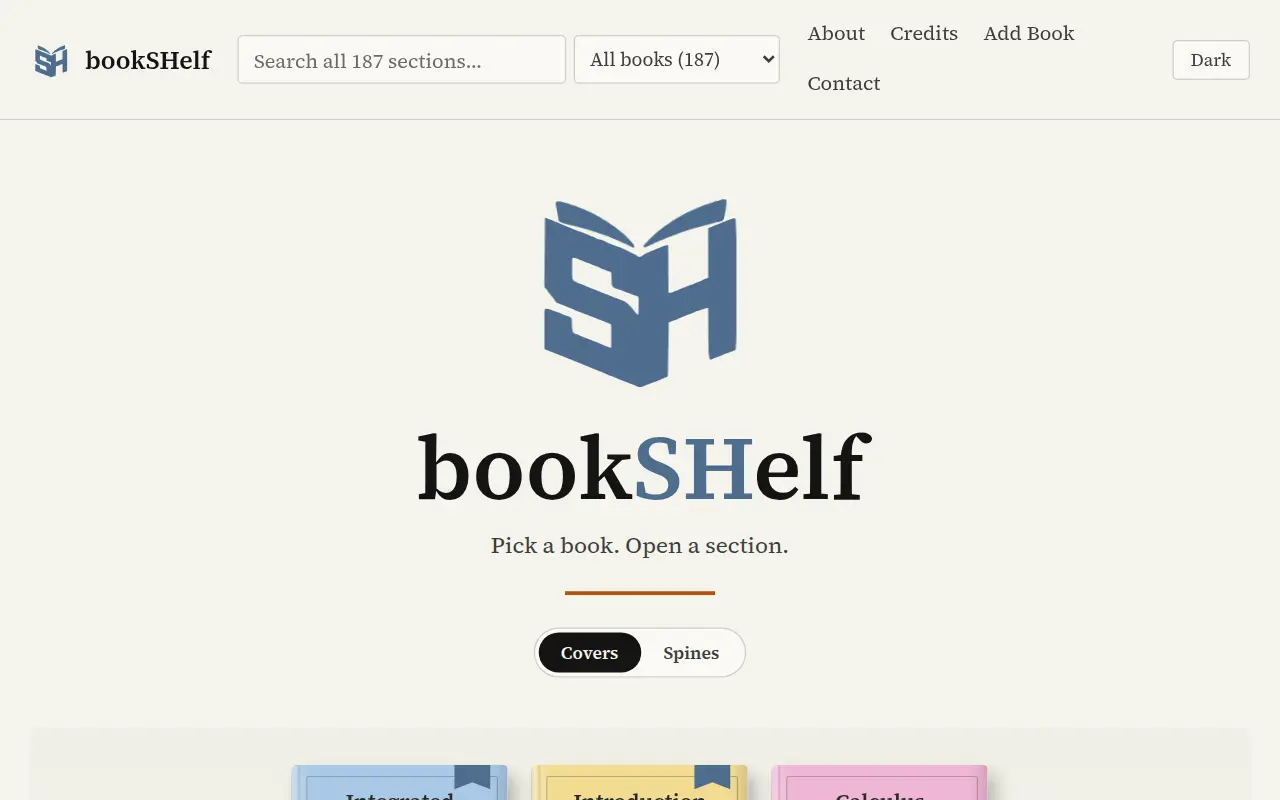
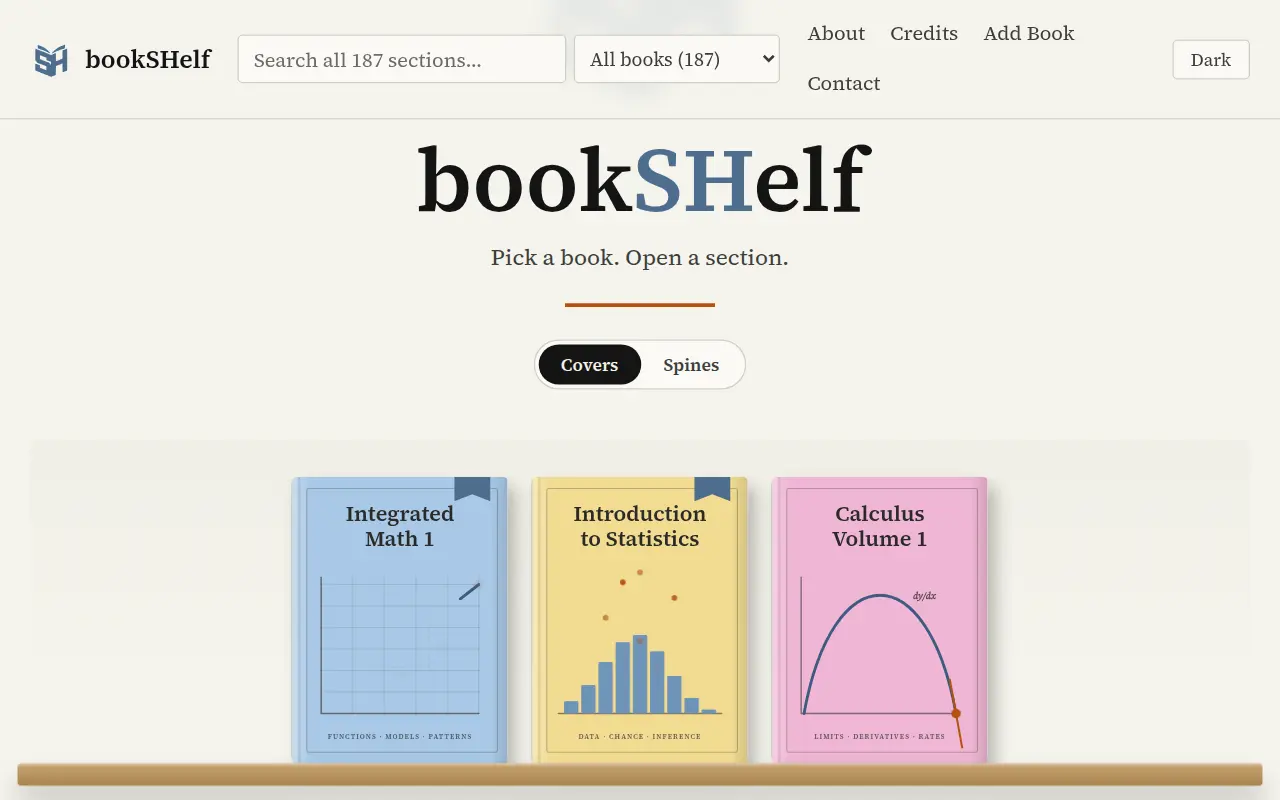
UI climb r6: real product close-ups, balanced headers and answer key
Feature card shows the rāSHio preview's histogram and box plot instead of
its marketing page. Clean crops for bookSHelf (full covers), verSHion
(headline and quiz), shCode (lesson list) and OfficeCraft (document
page). Filters sit beside the problem-set intro on desktop and scroll in
one row on phones. Answer key leads with a full-width 'who' card. More
air around the circled word, loose-leaf links and dark-mode frames.

diff --git a/index.html b/index.html
@@ -47,7 +47,7 @@
         --red: #ff8466;
         --tape: #c9bd8a;
         --card: #2a3630;
-        --frame: #e3e9de;
+        --frame: #cdd5c8;
         --frame-edge: rgba(0, 0, 0, 0.5);
         --hole: #0c110e;
         --coil: #5f676d;
@@ -117,7 +117,7 @@
       margin: 0 0 1.5rem; font-weight: 750; font-stretch: 90%;
       font-size: clamp(2.8rem, 6.4vw, 5.4rem); line-height: 0.98; letter-spacing: 0.002em; word-spacing: 0.03em; max-width: 12.5ch;
     }
-    .circled { position: relative; display: inline-block; white-space: nowrap; }
+    .circled { position: relative; display: inline-block; white-space: nowrap; margin: 0 0.16em; }
     .circled svg { position: absolute; left: -14%; top: -20%; width: 134%; height: 142%; overflow: visible; pointer-events: none; }
     .circled path { fill: none; stroke: var(--red); stroke-width: 3.2; stroke-linecap: round; stroke-dasharray: 760; stroke-dashoffset: 760; animation: draw 1.1s 0.5s cubic-bezier(.6,.05,.3,1) forwards; }
     @keyframes draw { to { stroke-dashoffset: 0; } }
@@ -178,7 +178,11 @@
     h2 { margin: 0; font-size: clamp(2.2rem, 4.6vw, 3.6rem); line-height: 1; letter-spacing: -0.035em; font-weight: 750; font-stretch: 80%; }
     .sec-sub { margin: 0 0 2rem; max-width: 56ch; color: var(--ink-soft); font-size: 1.125rem; }
 
-    .filters { display: flex; flex-wrap: wrap; gap: 0.5rem; margin: 0 0 2.5rem; font-family: var(--mono); font-size: 0.85rem; }
+    .ph { margin: 0 0 2.5rem; }
+    .ph .sec-sub { margin-bottom: 1.25rem; }
+    @media (min-width: 900px) { .ph { display: grid; grid-template-columns: 1fr auto; gap: 2rem; align-items: end; } .ph .sec-sub { margin-bottom: 0; } .ph .filters { justify-content: flex-end; flex-wrap: nowrap; } }
+    @media (max-width: 759px) { .ph .filters { flex-wrap: nowrap; overflow-x: auto; margin-inline: -1.25rem; padding: 0.2rem 1.25rem; scrollbar-width: none; } .ph .filters button { flex: none; } }
+    .filters { display: flex; flex-wrap: wrap; gap: 0.5rem; margin: 0; font-family: var(--mono); font-size: 0.85rem; }
     .filters button {
       font: inherit; color: var(--ink); background: transparent; border: 1.5px solid var(--ink); border-radius: 999px;
       padding: 0.45rem 1rem; cursor: pointer; transition: background .15s, color .15s;
@@ -200,7 +204,7 @@
     .prob .head { order: -1; margin-bottom: 0.35rem; }
     .feature h3 { font-size: clamp(2.4rem, 4.2vw, 3.6rem); }
     .feature p { font-size: 1.1rem; }
-    @media (prefers-color-scheme: dark) { .print img { filter: brightness(0.84) saturate(0.95); } }
+    @media (prefers-color-scheme: dark) { .print img { filter: brightness(0.8) saturate(0.92); } }
     @media (min-width: 760px) {
       .feature { grid-column: 1 / -1; display: grid; grid-template-columns: 1.3fr 1fr; column-gap: 3rem; align-content: center; }
       .feature .print { grid-column: 1; grid-row: 1 / span 5; align-self: center; margin: 0; }
@@ -240,10 +244,10 @@
     .stamp.draft { color: var(--ink-soft); border-style: dashed; }
 
     /* Loose-leaf: source-only work, set as an index */
-    .looseleaf { border-top: 2px solid var(--ink); margin: 0 0 2.5rem; padding: 0; list-style: none; }
+    .looseleaf { border-top: 2px solid var(--ink); margin: 0 0 2.25rem; padding: 0; list-style: none; }
     .ll-group[hidden] { display: none; }
-    .ll-group:last-of-type .looseleaf { margin-bottom: 4rem; }
-    .grp { margin: 0 0 0.5rem; font-family: var(--hand); font-size: 1.7rem; font-weight: 700; color: var(--red); line-height: 1; }
+    .ll-group:last-of-type .looseleaf { margin-bottom: 2.5rem; }
+    .grp { margin: 0 0 0.45rem; font-family: var(--hand); font-size: 1.4rem; font-weight: 700; color: var(--red); line-height: 1; }
     .looseleaf li { display: grid; align-items: baseline; grid-template-columns: 1.6rem 1fr; gap: 0 0.5rem; padding: 1.15rem 0; border-bottom: 1px solid color-mix(in srgb, var(--ink) 18%, transparent); }
     .looseleaf li[hidden] { display: none; }
     @media (min-width: 760px) { .looseleaf li { grid-template-columns: 3rem 14rem 1fr auto; column-gap: 2rem; align-items: baseline; } }
@@ -252,7 +256,8 @@
     .looseleaf p { margin: 0.2rem 0 0; color: var(--ink-soft); grid-column: 2; }
         .looseleaf .src { grid-column: 2; justify-self: start; margin-top: 0.5rem; font-family: var(--mono); font-size: 0.88rem; font-weight: 600; color: var(--ink); text-decoration: underline; text-decoration-color: var(--red); text-decoration-thickness: 2px; text-underline-offset: 5px; white-space: nowrap; padding: 0.3rem 0; }
     .looseleaf .src:hover { color: var(--red); }
-    @media (min-width: 760px) { .looseleaf .src { grid-column: auto; margin-top: 0; } }
+    @media (min-width: 760px) { .looseleaf .src { grid-column: auto; margin-top: 0; margin-left: 1.5rem; } }
+    @media (max-width: 759px) { .looseleaf li { grid-template-columns: auto 1fr; } .looseleaf li > p, .looseleaf li > .src { grid-column: 1 / -1; } }
         @media (min-width: 760px) { .looseleaf p { grid-column: auto; margin: 0; } }
     
     /* Answer key: four index cards */
@@ -260,11 +265,11 @@
     .key .sig { color: var(--red); font-weight: 300; margin-right: 0.1em; }
     .key .big { font-size: clamp(1.2rem, 2vw, 1.5rem); line-height: 1.35; font-weight: 400; color: var(--ink-soft); margin: 0.9rem 0 2rem; max-width: 40ch; }
     .key .cards { margin: 0; padding: 0; list-style: none; counter-reset: k; display: grid; grid-template-columns: 1fr; gap: 1.25rem; }
-    @media (min-width: 760px) { .key .cards { grid-template-columns: 1fr 1fr; gap: 1.5rem; } }
+    @media (min-width: 760px) { .key .cards { grid-template-columns: repeat(3, 1fr); gap: 1.5rem; } .key .cards li:first-child { grid-column: 1 / -1; } .key .cards li:first-child p { max-width: 70ch; font-size: 1.08rem; } }
     .key .cards li { counter-increment: k; background: var(--card); border: 1px solid var(--frame-edge); border-top: 3px solid var(--red); padding: 1.2rem 1.4rem 1.3rem; box-shadow: var(--shadow); }
     .key .cards h3 { margin: 0 0 0.5rem; font-size: 1.3rem; letter-spacing: -0.01em; font-weight: 700; font-stretch: 90%; }
     .key .cards h3::before { content: counter(k, lower-alpha) ") "; font-family: var(--hand); font-size: 1.5rem; color: var(--red); }
-    .key .cards p { margin: 0; color: var(--ink-soft); }
+    .key .cards p { margin: 0; color: color-mix(in srgb, var(--ink) 84%, var(--card)); }
     .key .cards a { color: var(--ink); font-weight: 650; text-decoration-color: var(--red); text-decoration-thickness: 2px; text-underline-offset: 4px; }
     .key .cards a:hover { color: var(--red); }
     footer { border-top: 2px solid var(--ink); padding: 1.5rem 0 3rem; display: grid; grid-template-columns: 1fr; gap: 0.75rem; align-items: baseline; font-family: var(--mono); font-size: 0.9rem; color: var(--ink-soft); }
@@ -331,19 +336,21 @@
       </div>
 
       <section id="problems" aria-labelledby="problems-title">
+        <div class="ph"><div>
         <div class="sec-title"><h2 id="problems-title">The problem set</h2><span class="note" style="font-size:1.6rem" aria-hidden="true">due: whenever it's ready</span></div>
         <p class="sec-sub">Each one started as a real problem in a real room: a stats class, a CS lab, a weld shop. Most open in the browser with no account and nothing to install.</p>
-
+        </div>
         <div class="filters" role="group" aria-label="Filter problems">
           <button type="button" aria-pressed="true" data-filter="all">All 20</button>
           <button type="button" aria-pressed="false" data-filter="class">The classroom</button>
           <button type="button" aria-pressed="false" data-filter="make">Math &amp; making</button>
           <button type="button" aria-pressed="false" data-filter="lab">Home lab</button>
         </div>
+        </div>
 
         <div class="problems">
           <article class="prob feature reveal" data-cat="class">
-            <figure class="print"><img src="img/rashio.webp" width="1280" height="800" loading="lazy" alt="rāSHio's home screen listing its statistics tools."><figcaption class="strip"><span class="stamp live">Live</span><span class="note" aria-hidden="true">say it: ray-she-oh</span></figcaption></figure>
+            <figure class="print"><img src="img/rashio-app.webp" width="1280" height="800" loading="lazy" alt="rāSHio's preview app: a histogram and box plot of sample ages with min, quartiles, median and max."><figcaption class="strip"><span class="stamp live">Live</span><span class="note" aria-hidden="true">say it: ray-she-oh</span></figcaption></figure>
             <div class="head"><span class="n">1.</span><h3><a href="https://rashio.app/">rā<span class="sh">SH</span>io</a></h3></div>
             <p>A statistics calculator for the intro course, built to replace the StatCrunch and TI-84 shuffle. A spreadsheet up front, then t-tests, ANOVA, chi-square and probability shading, and every chart redraws as the data changes. The data never leaves the student's machine.</p>
             <span class="given"><b>Given:</b> browser, D3, Cloudflare D1</span>
@@ -351,15 +358,15 @@
           </article>
 
           <article class="prob s3 reveal" data-cat="class">
-            <figure class="print"><img src="img/bookshelf.webp" width="1280" height="800" loading="lazy" alt="bookSHelf's library: pick a textbook and open a section."><figcaption class="strip"><span class="stamp live">Live</span></figcaption></figure>
+            <figure class="print"><img src="img/bookshelf.webp" width="1280" height="800" loading="lazy" alt="bookSHelf's shelf of open textbooks: Integrated Math 1, Introduction to Statistics and Calculus Volume 1."><figcaption class="strip"><span class="stamp live">Live</span></figcaption></figure>
             <div class="head"><span class="n">2.</span><h3><a href="https://oerbookshelf.app/">book<span class="sh">SH</span>elf</a></h3></div>
-            <p>Open textbooks, rewritten for the student who actually reads them: plain-English explanations, worked examples, collapsible solutions. An 11-step pipeline produces every page.</p>
+            <p>Open textbooks, rewritten for the student who actually reads them: plain-English explanations, worked examples, collapsible solutions. An 11&#8209;step pipeline produces every page.</p>
             <span class="given"><b>Given:</b> 180+ sections, MathJax</span>
             <span class="links"><a class="go" href="https://oerbookshelf.app/">Open it &rarr;</a></span>
           </article>
 
           <article class="prob s3 reveal" data-cat="class">
-            <figure class="print"><img src="img/vershion.webp" width="1280" height="800" loading="lazy" alt="verSHion: Turn anything into an exam."><figcaption class="strip"><span class="stamp live">Live</span><span class="note" aria-hidden="true">version A, version B.</span></figcaption></figure>
+            <figure class="print"><img src="img/vershion-card.webp" width="1280" height="800" loading="lazy" alt="verSHion: Turn anything into an exam, beside a printed linear equations quiz."><figcaption class="strip"><span class="stamp live">Live</span><span class="note" aria-hidden="true">version A, version B.</span></figcaption></figure>
             <div class="head"><span class="n">3.</span><h3><a href="https://vershion.lefthanddev.com/">ver<span class="sh">SH</span>ion</a></h3></div>
             <p>Question banks in, printed tests out. Old PDFs, scans, screenshots and Word docs become clean exams with shuffled versions and an answer key.</p>
             <span class="given"><b>Given:</b> Rust, egui, WebAssembly</span>
